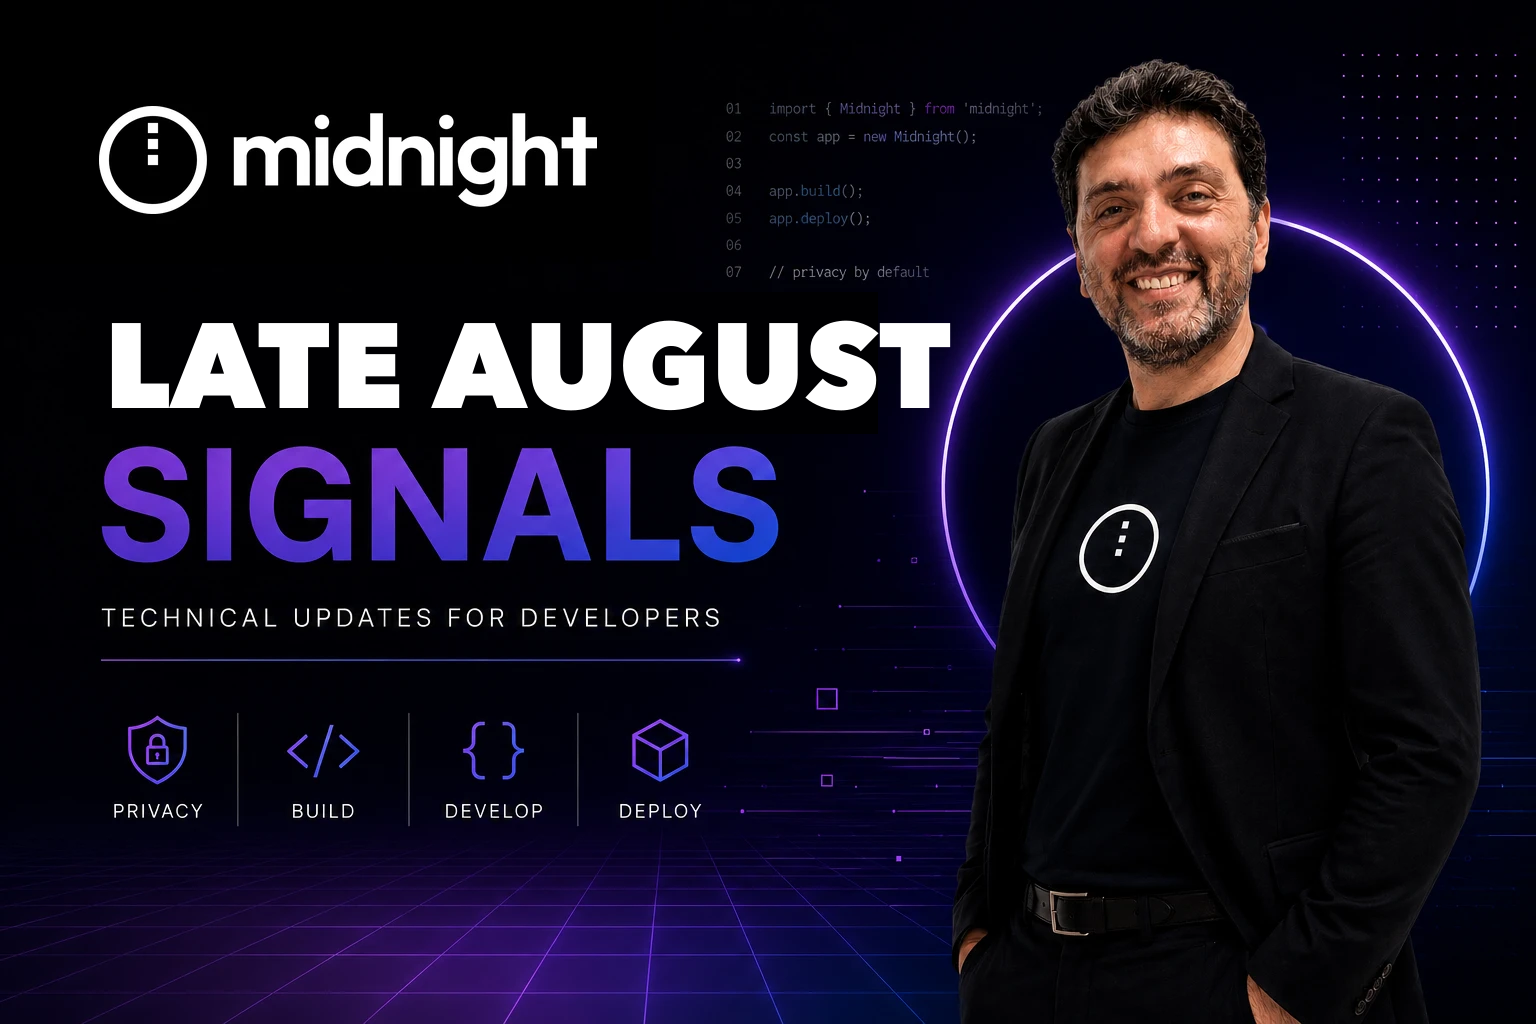
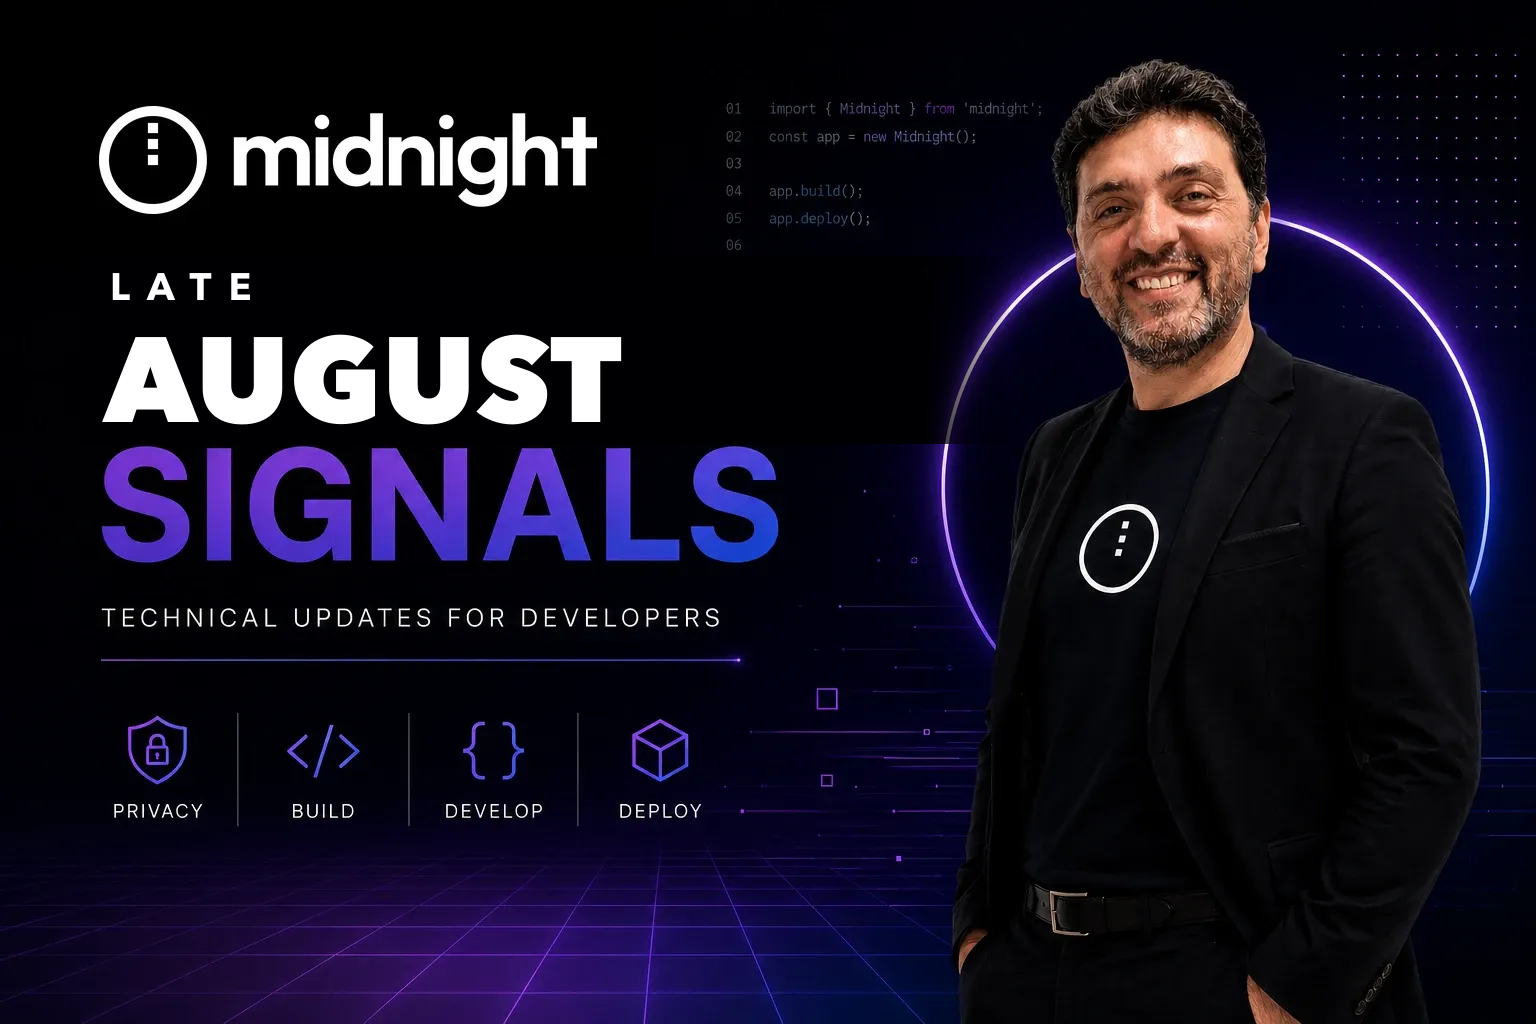
Covers: consistent EARLY/LATE month lockup; September -> Early September
- add scripts/make-cover.mjs + assets/cover-base.png (official key art kept
  outside public/); covers are regenerated from it, month wordmark only
- all three covers now stack a small qualifier over the month name with a
  feathered patch edge, so the text never runs into the portrait
- 2026-09.png reads "EARLY SEPTEMBER"; edition retitled to "Early September"

Changed region(s): [[0.0625, 0.25, 0.6562, 0.4375], [0.5312, 0.25, 0.5938, 0.2812]]

diff --git a/public/covers/README.md b/public/covers/README.md
@@ -1,8 +1,27 @@
 # Edition covers
 
-One image per monthly edition, named to match the edition file
-(`2026-09.png` ↔ `src/content/editions/2026-09-signals-1.md`).
+One image per edition, named to match the edition file:
 
-- ~1200×630, PNG/JPG/SVG.
-- Use official Midnight key art. Do not recreate or alter Midnight brand marks.
-- Reference from the edition frontmatter: `cover: "covers/2026-09.png"`.
+| Edition file | Cover |
+| --- | --- |
+| `2026-08-signals-1.md` (Early August) | `2026-08.png` |
+| `2026-08-signals-2.md` (Late August) | `2026-08-2.png` |
+| `2026-09-signals-1.md` (Early September) | `2026-09.png` |
+
+Reference from the edition frontmatter: `cover: "covers/2026-09.png"`.
+
+## Generating a cover
+
+Covers are derived from the official key art (`assets/cover-base.png`, kept
+outside `public/`) by swapping only the month wordmark — the Midnight logo,
+portrait, "SIGNALS", pillars and background are never redrawn.
+
+```bash
+# node scripts/make-cover.mjs "<QUALIFIER>" "<MONTH>" <output path>
+node scripts/make-cover.mjs "LATE" "SEPTEMBER" public/covers/2026-09-2.png
+node scripts/make-cover.mjs ""     "OCTOBER"   public/covers/2026-10.png
+```
+
+The month text renders in Avenir Next (a system font) — a close stand-in for the
+Midnight display face. Swap in the real brand font or a hand-made image if an
+exact match is needed.

diff --git a/src/content/editions/2026-09-signals-1.md b/src/content/editions/2026-09-signals-1.md
@@ -1,6 +1,6 @@
 ---
-title: "Midnight Technical Signals — September #1"
-edition: "September 2026 · #1"
+title: "Midnight Technical Signals — Early September"
+edition: "Early September 2026"
 date: 2026-09-01
 cover: "covers/2026-09.png"
 summary: >-
